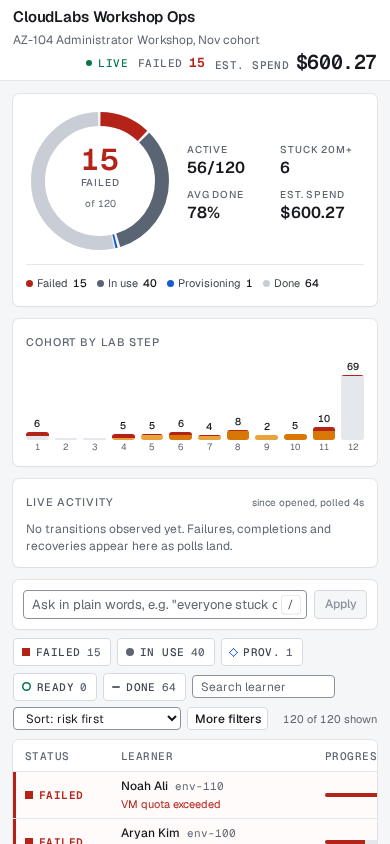
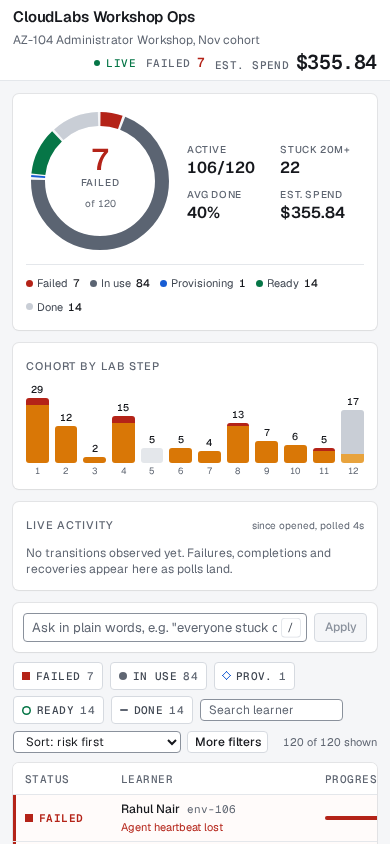
Band polish: one-line metric labels, completed learners as their own heatmap segment
- STUCK 20M+ no longer wraps in the narrow metric block
- Heatmap bars now stack three honest segments: active dwell (amber),
  completed (light gray), failed (red cap) - step 12 can no longer be
  misread as a wall of active/stuck learners
- Server steps aggregate carries per-step done counts; sr-only and
  caption text updated to match

diff --git a/components/ops-graphics.tsx b/components/ops-graphics.tsx
@@ -120,7 +120,7 @@ export function SessionHealth({
             ] as const
           ).map(([k, v, c]) => (
             <div key={k}>
-              <dt className="text-[10px] font-medium uppercase tracking-[0.08em] text-muted">{k}</dt>
+              <dt className="whitespace-nowrap text-[10px] font-medium uppercase tracking-[0.06em] text-muted">{k}</dt>
               <dd className="tnum text-[16px] font-semibold leading-5" style={c ? { color: c } : undefined}>
                 {v}
               </dd>
@@ -164,6 +164,7 @@ export interface StepBucket {
   step: number;
   count: number;
   failed: number;
+  done: number;
   stuck: number;
   maxOnStep: number;
 }
@@ -185,7 +186,7 @@ export function StepHeatmap({
     <section className="surface flex min-w-0 flex-col p-4" aria-label="Cohort by lab step">
       <div className="mb-3 flex items-baseline justify-between gap-3">
         <h2 className="text-[11px] font-medium uppercase tracking-[0.08em] text-muted">Cohort by lab step</h2>
-        <span className="hidden text-[10px] text-muted sm:block">bar = learners - red = failed, amber = long dwell</span>
+        <span className="hidden text-[10px] text-muted sm:block">bar = learners on step - red failed, gray done, amber active dwell</span>
       </div>
       <div className="flex h-28 items-end gap-[6px]" role="group" aria-label="Steps">
         {steps.map((s) => {
@@ -196,6 +197,7 @@ export function StepHeatmap({
           const dim = activeStep !== null && !on;
           const totalH = Math.max((s.count / maxCount) * 100, s.count ? 6 : 0);
           const failedPct = s.count ? (s.failed / s.count) * 100 : 0;
+          const donePct = s.count ? (s.done / s.count) * 100 : 0;
           return (
             <button
               key={s.step}
@@ -207,7 +209,7 @@ export function StepHeatmap({
                 {s.count || ""}
               </span>
               <span className="sr-only">
-                {` learners on step ${s.step}${s.failed ? `, ${s.failed} failed` : ""}${s.stuck ? `, ${s.stuck} stuck` : ""}. Click to filter.`}
+                {` learners on step ${s.step}${s.failed ? `, ${s.failed} failed` : ""}${s.done ? `, ${s.done} completed` : ""}${s.stuck ? `, ${s.stuck} stuck` : ""}. Click to filter.`}
               </span>
               <span
                 aria-hidden
@@ -222,7 +224,8 @@ export function StepHeatmap({
                   transition: "opacity 150ms",
                 }}
               >
-                <span className="w-full" style={{ height: `${100 - failedPct}%`, background: body }} />
+                <span className="w-full" style={{ height: `${100 - failedPct - donePct}%`, background: body }} />
+                {donePct > 0 && <span className="w-full" style={{ height: `${donePct}%`, background: "#c9ced6" }} />}
                 {failedPct > 0 && <span className="w-full" style={{ height: `${failedPct}%`, background: "var(--failed)" }} />}
               </span>
               <span className="tnum text-[9px] leading-3 text-muted">{s.step}</span>

diff --git a/app/api/environments/route.ts b/app/api/environments/route.ts
@@ -58,11 +58,12 @@ export async function GET(req: NextRequest) {
     // Full-cohort step distribution for the cohort heatmap: unaffected by
     // the table's filters, computed from the same snapshot.
     const totalSteps = all[0]?.totalSteps ?? 12;
-    const steps = Array.from({ length: totalSteps }, (_, i) => ({ step: i + 1, count: 0, failed: 0, stuck: 0, maxOnStep: 0 }));
+    const steps = Array.from({ length: totalSteps }, (_, i) => ({ step: i + 1, count: 0, failed: 0, done: 0, stuck: 0, maxOnStep: 0 }));
     for (const e of all) {
       const b = steps[Math.min(Math.max(e.step, 1), totalSteps) - 1];
       b.count++;
       if (e.state === "failed") b.failed++;
+      if (e.state === "deprovisioned") b.done++;
       if (isStuck(e, now)) b.stuck++;
       // Dwell heat tracks ACTIVE learners only: a failed environment dwells
       // by definition, and a completed one no longer burns time - including
